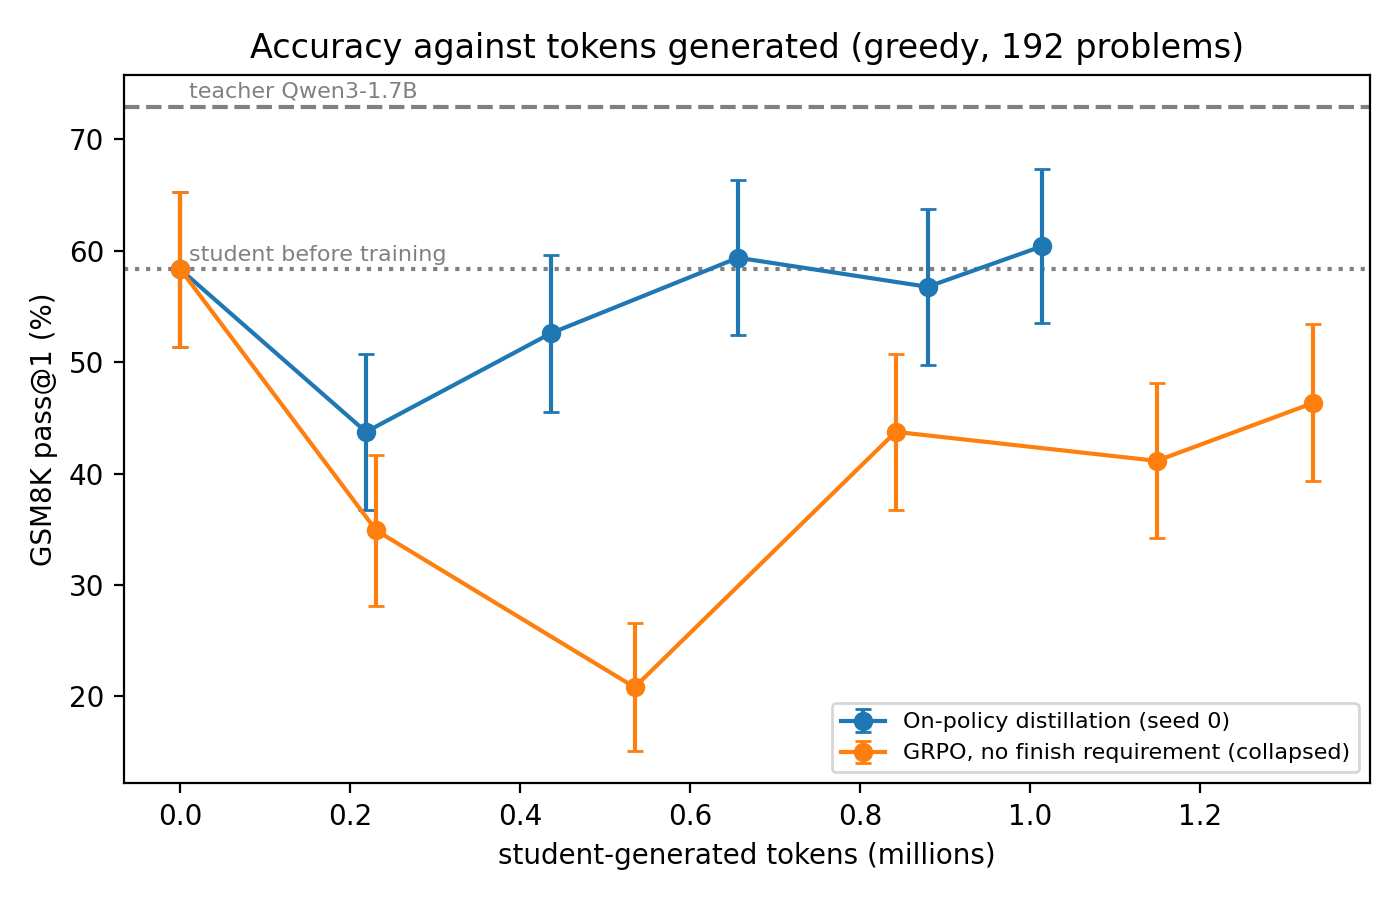
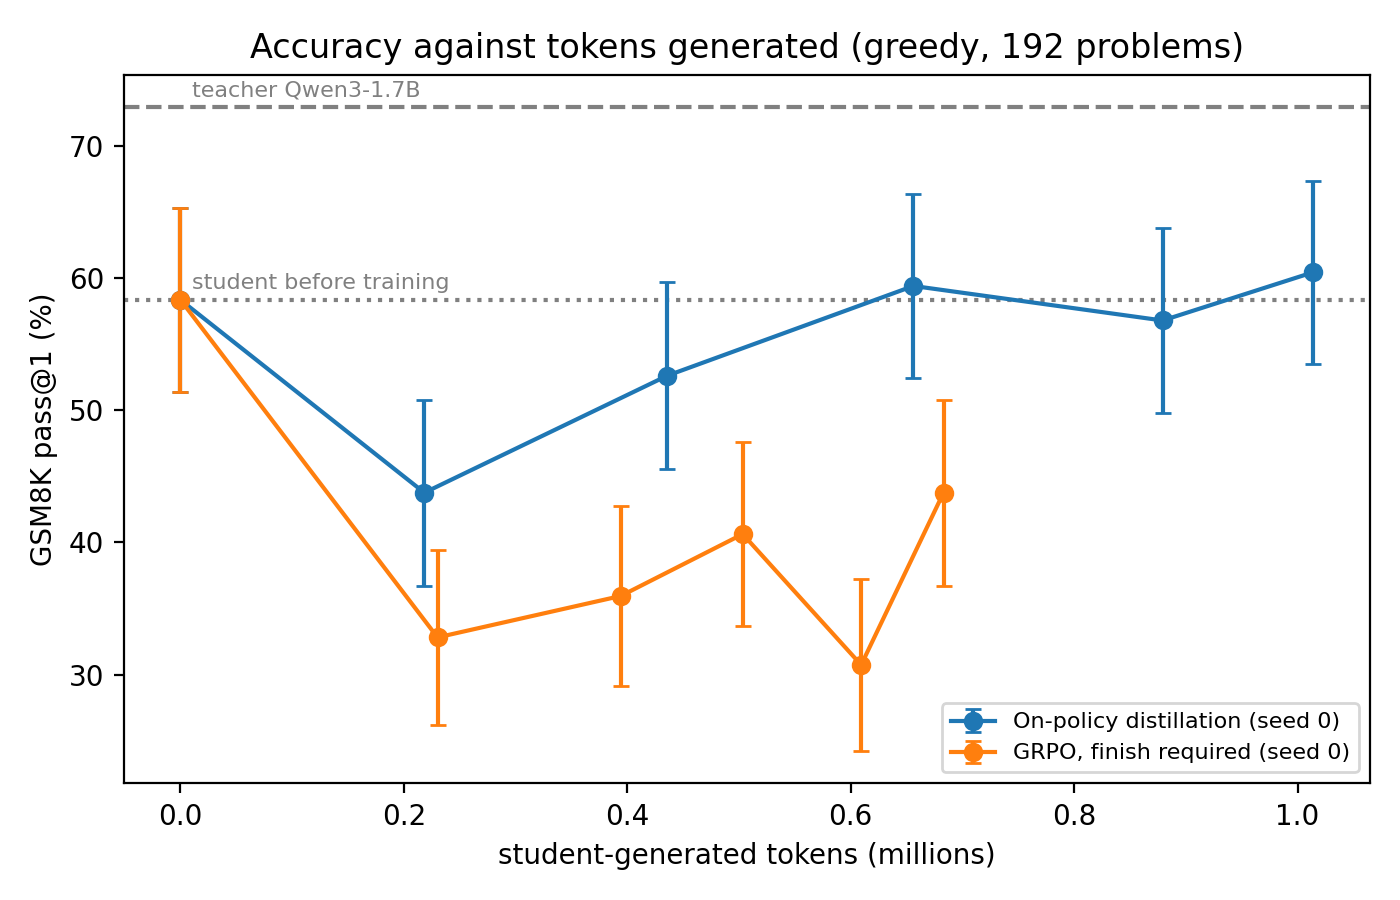
Add GRPO run with finished-answer reward and update run figures

diff --git a/src/plots_runs.py b/src/plots_runs.py
@@ -60,3 +60,20 @@ def make_all():
     accuracy_vs_tokens(ok); length_curve(ok)
     if "opd_s0_v2" in ok.values(): kl_curve("opd_s0_v2")
     print("figures written to results/figures/")
+
+def make_all():
+    runs = {"On-policy distillation (seed 0)": "opd_s0_v2", "GRPO, finish required (seed 0)": "grpo_s0_v2"}
+    ok = {}
+    for k, n in runs.items():
+        try: run_dir(n); ok[k] = n
+        except FileNotFoundError: print("missing run, skipped:", n)
+    accuracy_vs_tokens(ok); length_curve(ok)
+    if "opd_s0_v2" in ok.values(): kl_curve("opd_s0_v2")
+    allr = dict(ok)
+    try:
+        run_dir("grpo_s0_never_stops"); allr["GRPO, no finish requirement (collapsed)"] = "grpo_s0_never_stops"
+    except FileNotFoundError:
+        pass
+    length_curve(allr, out="results/figures/length_and_finish_all_runs.png")
+    accuracy_vs_tokens(allr, out="results/figures/accuracy_vs_tokens_all_runs.png")
+    print("figures written to results/figures/")
